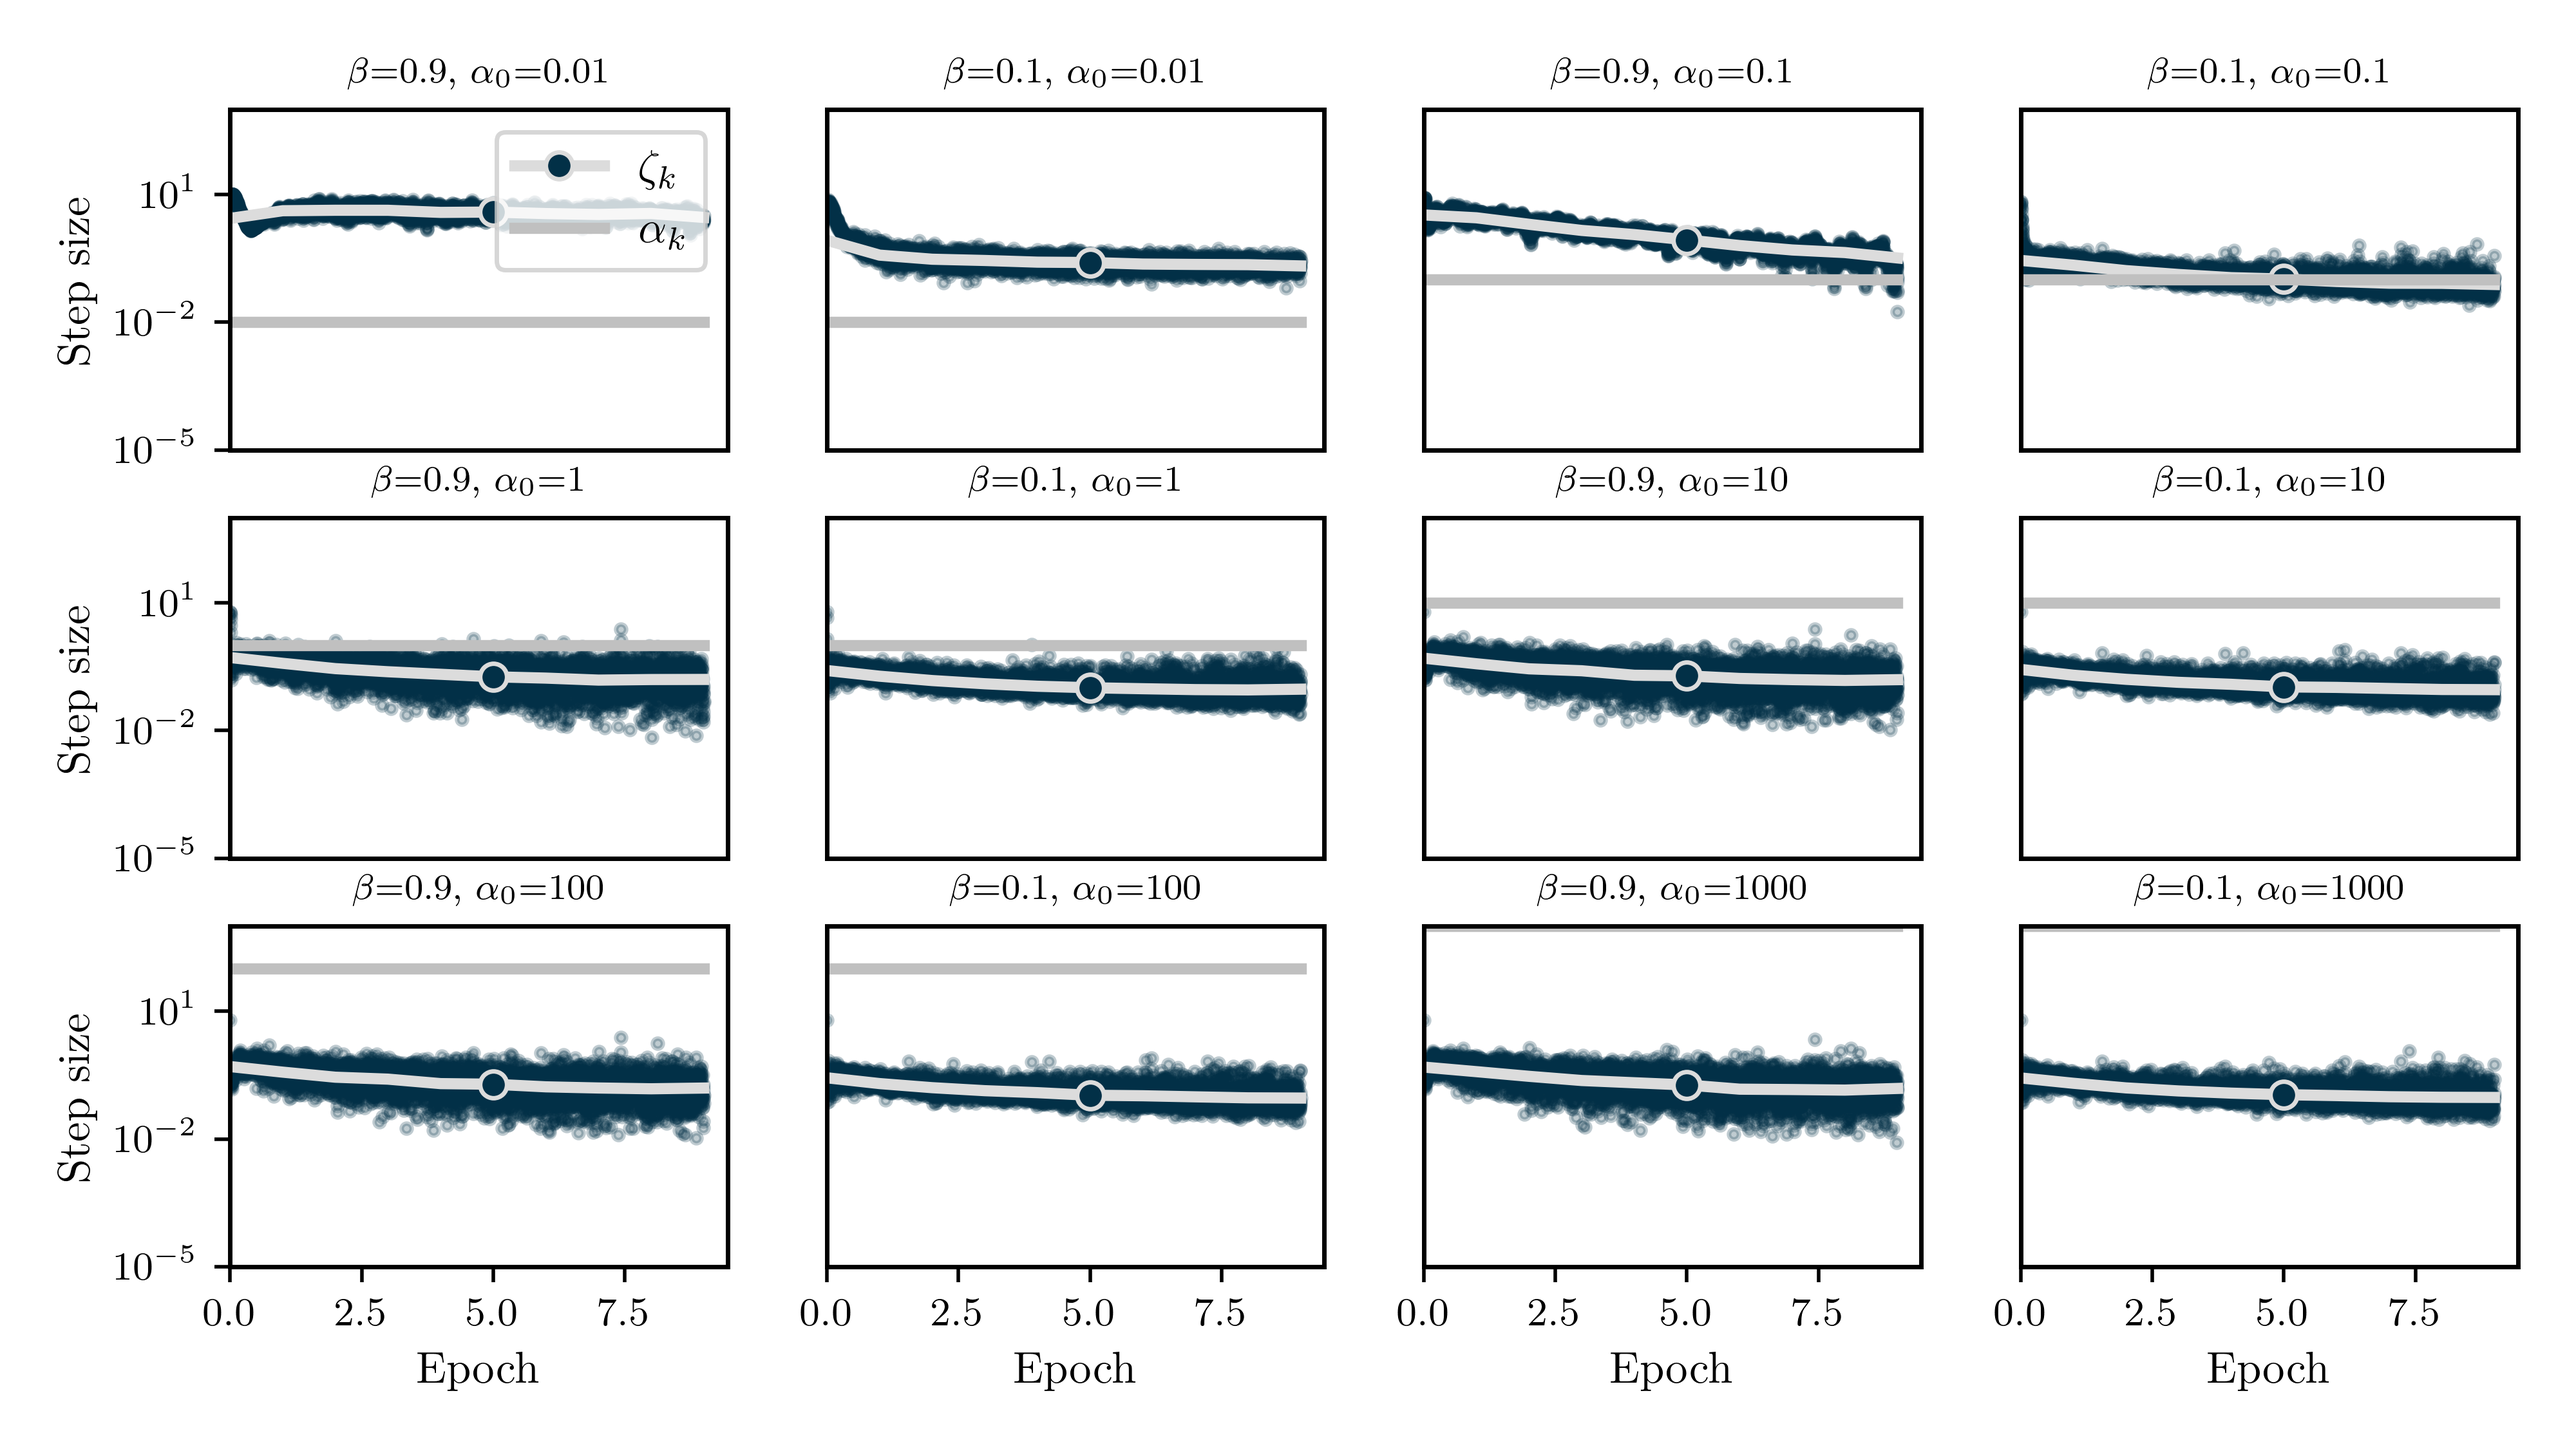
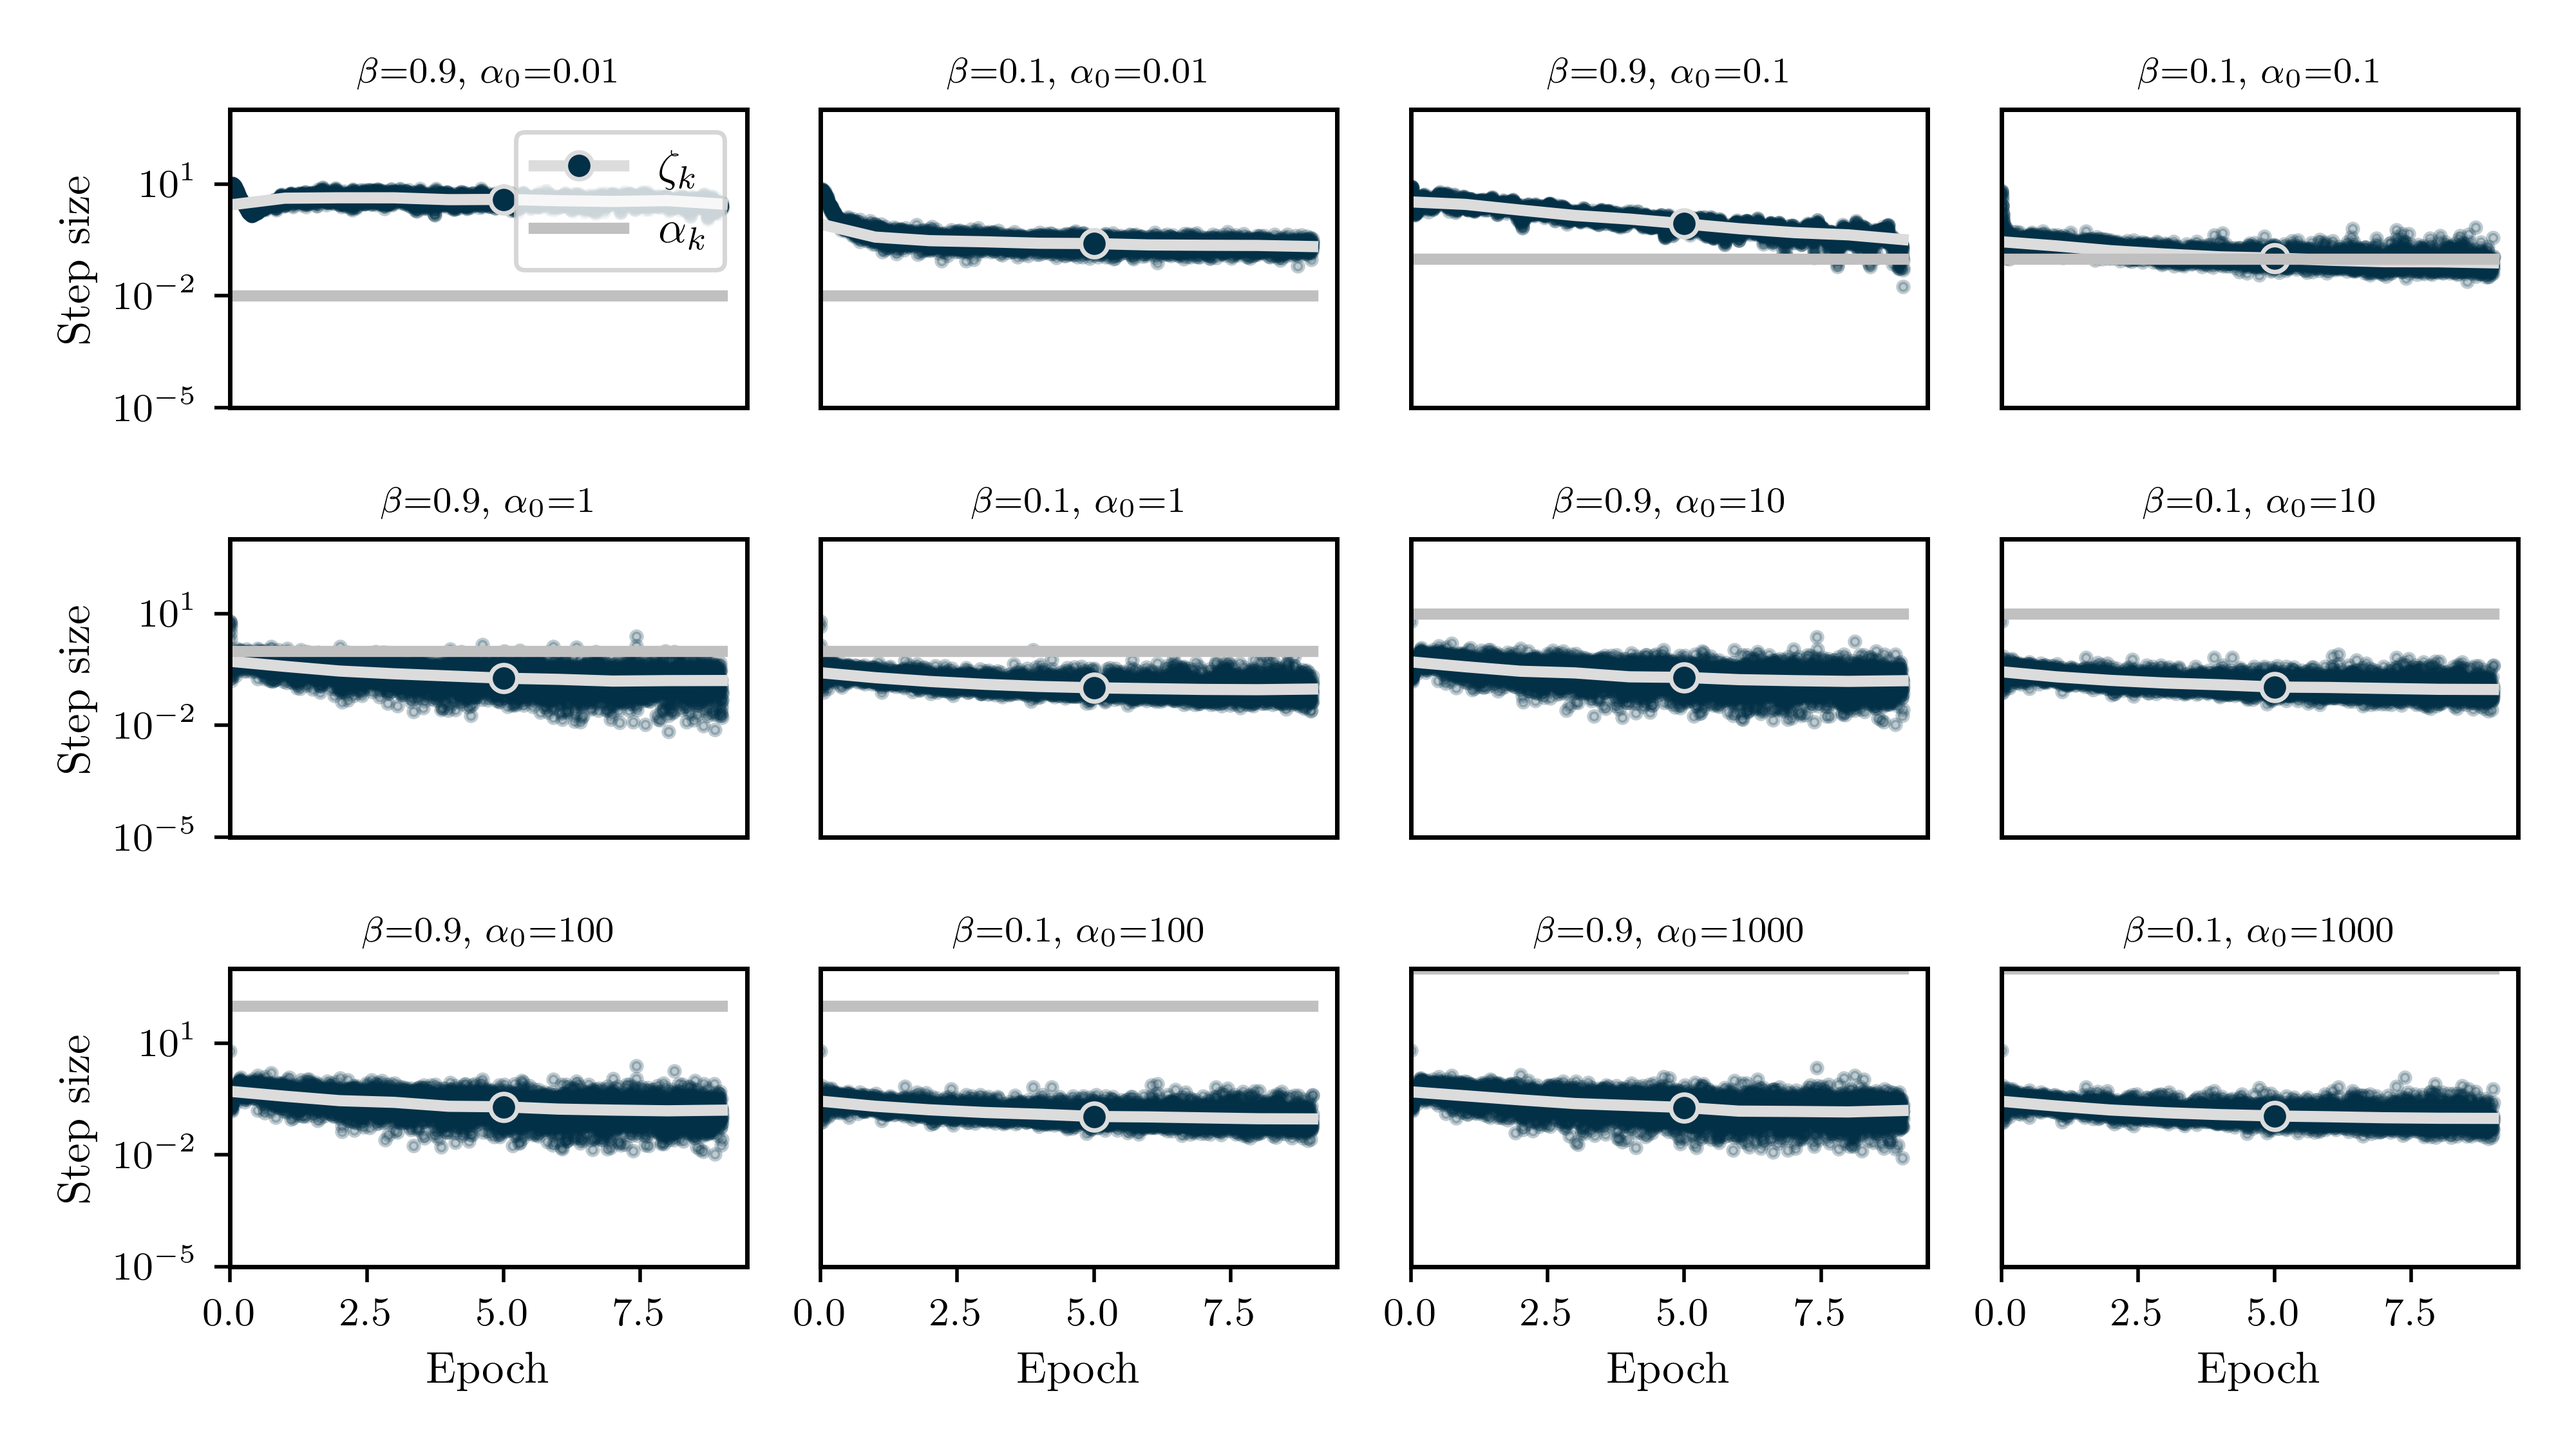
mnist plots

diff --git a/show.py b/show.py
@@ -104,7 +104,11 @@ if xaxis == 'lr':
 else:
     ax.set_xlabel(xaxis)
 
-#ax.set_ylim(0,1)    
+if s == 'val_score':
+    ax.set_ylim(0,1)    
+elif s == 'train_loss':
+    ax.set_yscale('log')
+
 ax.set_ylabel(score_names[s])
 ax.set_xscale('log')
 ax.grid(axis='y', lw=0.2, ls='--', zorder=-10)
@@ -211,8 +215,9 @@ for _id in df.id.unique():
 
     counter += 1
 
-fig.tight_layout()
+
 fig.subplots_adjust(hspace=0.2, wspace=0.2)
+fig.tight_layout()
 
 if save:
     fig.savefig('output/plots/' + exp_id + f'/step_sizes_'+ method + '.png', dpi=500)
